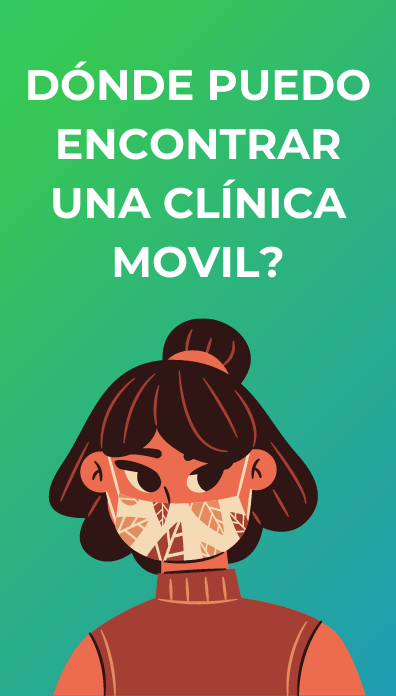
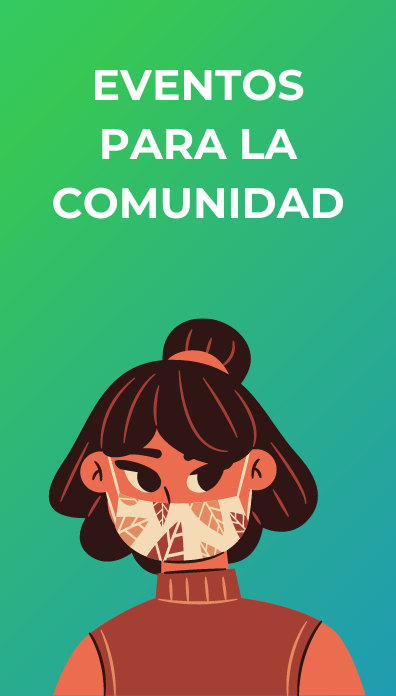
Updated flyers

Changed region(s): [[0.1212, 0.181, 0.8788, 0.4224], [0.0606, 0.0905, 0.9394, 0.1509]]

diff --git a/index-es.html b/index-es.html
@@ -220,7 +220,7 @@
                             </a>
                         </div>
                         <div class="item">
-                            <a href="./img/screenshot2.png" data-fancybox="group1" data-title="Mobile Clinic">
+                            <a href="./img/flyer.png" data-fancybox="group1" data-title="Mobile Clinic">
                                 <img src="./img/mobile-clinic-es.png" alt="Mobile Clinic">
                             </a>
                         </div>

diff --git a/index.html b/index.html
@@ -215,7 +215,7 @@
                             </a>
                         </div>
                         <div class="item">
-                            <a href="./img/screenshot2.png" data-fancybox="group1" data-title="Mobile Clinic">
+                            <a href="./img/flyer.png" data-fancybox="group1" data-title="Mobile Clinic">
                                 <img src="./img/mobile-clinic.png" alt="Mobile Clinic">
                             </a>
                         </div>
